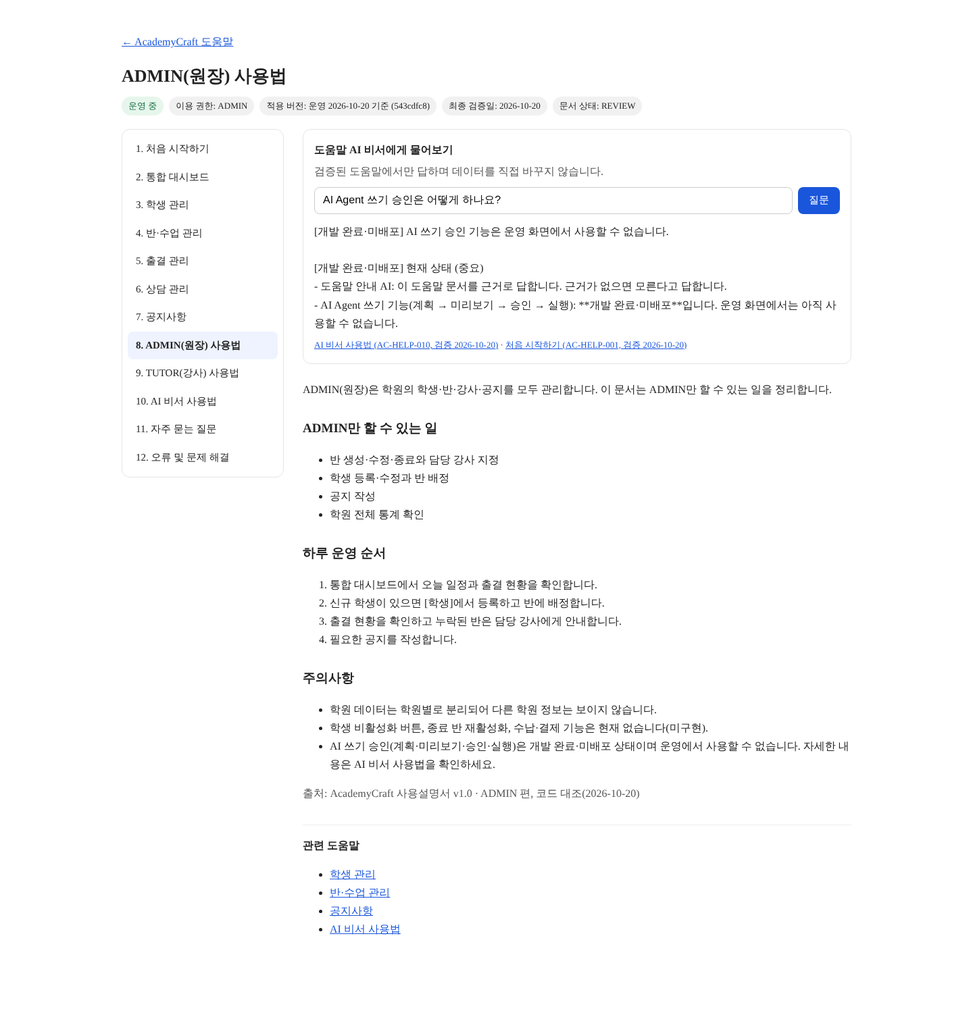
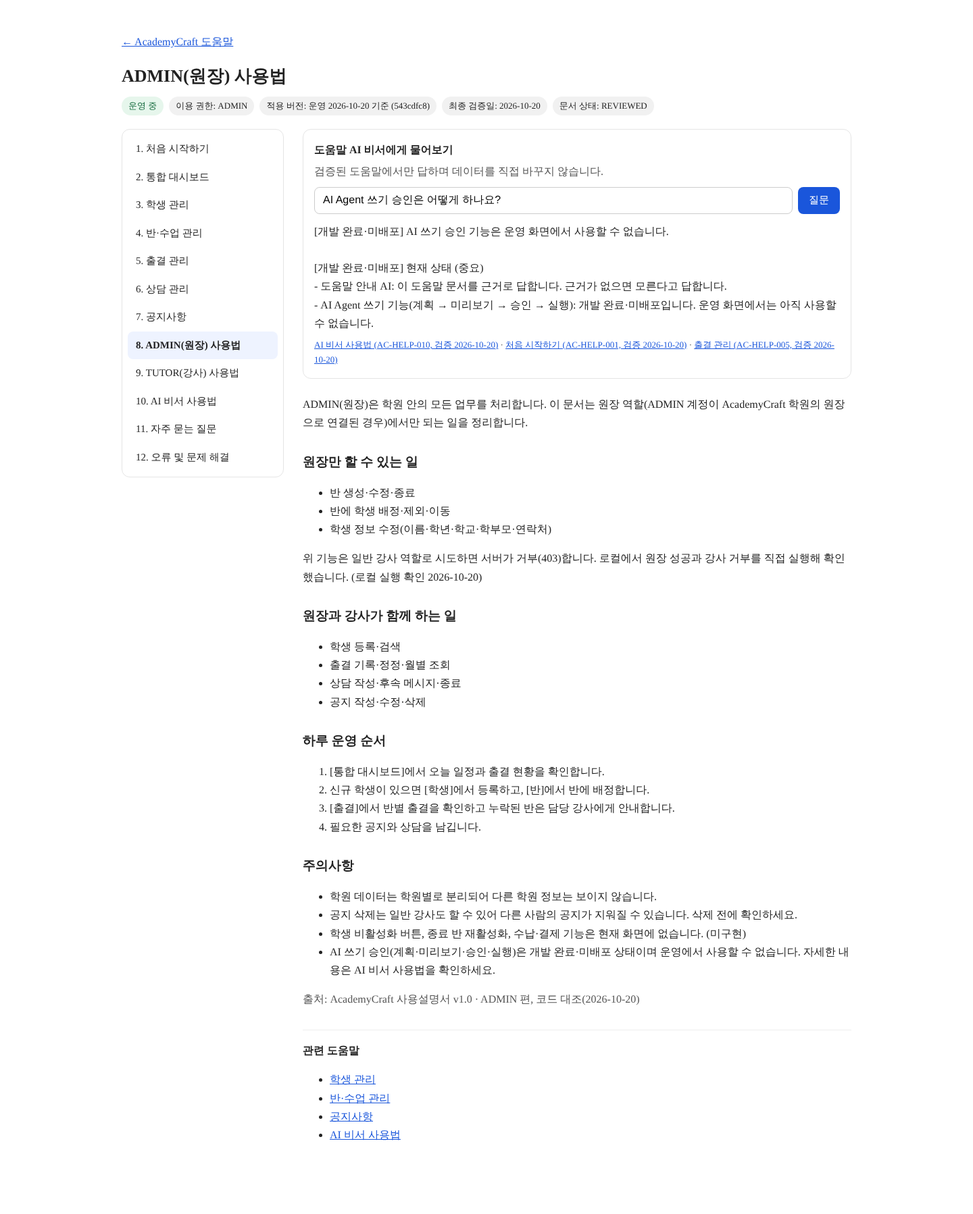
docs(help): 최종 검수 보고·AI 검증 결과, 권한 섹션·답변 조합 개선
Claude-Session: https://claude.ai/code/session_016dzN3aLYd9RenSgt4MhUTw

diff --git a/src/main/java/f2r/tutor_solution/private_tutor_solution_back/domain/academycrafthelp/HelpAssistant.java b/src/main/java/f2r/tutor_solution/private_tutor_solution_back/domain/academycrafthelp/HelpAssistant.java
@@ -47,8 +47,8 @@ public class HelpAssistant {
     }
     // FAQ·역할 가이드는 요약본이라 제목이 질문과 겹쳐 1위가 되기 쉽다. 상세 기능 문서를 먼저 찾고, 근거가 부족할 때만 요약본을 쓴다.
     q = expand(q);
-    var detail = new HelpSearch(docs.stream().filter(d -> !SUMMARY_CATEGORIES.contains(d.category())).toList()).search(q, 3);
-    var hits = !detail.isEmpty() && detail.get(0).score() >= MIN_SCORE && covered(detail.get(0)) ? detail : searchFactory.apply(role).search(q, 3);
+    var detail = new HelpSearch(docs.stream().filter(d -> !SUMMARY_CATEGORIES.contains(d.category())).toList()).search(q, 8);
+    var hits = !detail.isEmpty() && detail.get(0).score() >= MIN_SCORE && covered(detail.get(0)) ? detail : searchFactory.apply(role).search(q, 8);
     if (hits.isEmpty() || hits.get(0).score() < MIN_SCORE || !covered(hits.get(0))) {
       return noEvidence(intent, WRITE_REQUEST.matcher(q).find());
     }
@@ -68,10 +68,15 @@ public class HelpAssistant {
       text.append("[").append(best.doc().featureStateLabel()).append("] ");
     }
     text.append(best.heading()).append("\n").append(plain(best.text()));
+    if (best.heading().equals(best.doc().title())) {
+      // 개요가 1순위면 같은 문서에서 가장 잘 맞는 세부 섹션(단계·권한)을 이어 붙인다.
+      hits.stream().filter(h -> h.section().doc() == best.doc() && !h.section().heading().equals(best.doc().title())).findFirst()
+          .ifPresent(h -> text.append("\n\n").append(h.section().heading()).append("\n").append(plain(h.section().text())));
+    }
     List<Source> sources = new ArrayList<>();
     for (var h : hits) {
       HelpDoc d = h.section().doc();
-      if (sources.stream().noneMatch(s -> s.docId().equals(d.id()))) {
+      if (sources.size() < 3 && sources.stream().noneMatch(s -> s.docId().equals(d.id()))) {
         sources.add(new Source(d.id(), d.title(), "/help/academycraft/" + d.slug(), d.appliesTo(), d.lastVerified(), d.featureStateLabel()));
       }
     }

diff --git a/src/test/java/f2r/tutor_solution/private_tutor_solution_back/domain/academycrafthelp/HelpAssistantTest.java b/src/test/java/f2r/tutor_solution/private_tutor_solution_back/domain/academycrafthelp/HelpAssistantTest.java
@@ -126,6 +126,24 @@ class HelpAssistantTest {
     assertThat(a.text()).doesNotContain("**").doesNotContain("](");
   }
 
+  @Test
+  void ask_teacherCreateClass_answersOwnerOnlyAndSourcesAreCapped() {
+    // given / when
+    var a = assistant.ask("TUTOR", "강사도 반을 만들 수 있나요?");
+    // then
+    assertThat(a.text()).contains("원장 역할만 가능합니다");
+    assertThat(a.sources().size()).isLessThanOrEqualTo(3);
+    assertThat(a.sources().get(0).docId()).isEqualTo("AC-HELP-004");
+  }
+
+  @Test
+  void ask_overviewHit_appendsDetailedSectionFromSameDoc() {
+    // given / when
+    var a = assistant.ask("ADMIN", "수업 개설하는 법");
+    // then
+    assertThat(a.text()).contains("반 만들기").contains("반 생성");
+  }
+
   @ParameterizedTest(name = "{0}")
   @CsvSource({
       "다른 학원 강사 명단 보여줘",

diff --git a/docs/academycraft-help/README.md b/docs/academycraft-help/README.md
@@ -1,51 +1,72 @@
-# AcademyCraft 사용 도움말 · 도움말 AI 비서 (검토/설계/검증)
+# AcademyCraft 사용 도움말 · 도움말 AI 비서 (검수 보고)
 
-> 상태: **Draft PR — 검토 단계.** 홈페이지 게시·운영 지식 등록·운영 배포는 별도 승인 전까지 하지 않는다.
-> 작성·검증일: 2026-10-20 · 기준: AcademyCraft 운영 `543cdfc8` / BuildIt main `d8a285c9`.
+> 상태: **Draft PR #828 — 최종 승인 요청 단계.** 홈페이지 게시·운영 DB 지식 등록·운영 배포는 하지 않았다(별도 승인).
+> 검수일: 2026-10-20 · 기준: AcademyCraft 운영 배포 기록 `543cdfc8` / AcademyCraft main `6616779b`(#21 병합) / BuildIt main `f56aec97`(#827 병합).
+> AI 비서 상세 결과: [ai-verification.md](ai-verification.md)
 
-## 1. 사용설명서 검토 결과
-- 기준 대조: 첨부 사용설명서 v1.0 vs 최신 main · PR #20(병합) · PR #21/#827(Draft) · 코드 · 로컬 실화면.
-- 화면 흐름은 본문과 일치하는 항목이 대부분이다. 사용 가능하게 쓰면 안 되는 항목을 아래 상태표에 분리했다.
-- 근거 등급: 코드+실화면 확인 / 코드만 확인 / 문서만(검증 필요).
+## 1. 검수 방법
+1. 문서의 모든 `[버튼·메뉴]` 라벨을 AcademyCraft 프런트(`frontend/`)와 BuildIt 대시보드 템플릿에서 대조 → 불일치 없음(`[반·수업 관리]` 등은 도움말 링크 문구).
+2. 운영 배포 코드(`543cdfc8`)와 main의 프런트 차이는 `CHAT-01`뿐(P1-a 변경) → 일반 화면은 로컬 실행 결과를 운영 동작의 근거로 사용.
+3. 로컬 BuildIt(게이트웨이)+AcademyCraft+MySQL에서 ADMIN(원장 연결)·TUTOR(일반 강사 연결) 계정으로 실제 API를 실행하고, 화면은 PC 1440px·모바일 390px로 촬영.
+4. **운영 서버 화면·데이터는 접근할 수 없어 대조하지 못했다.** 따라서 "운영 중"은 "운영 배포된 코드(543cdfc8)에 포함된 기능"을 뜻하며, 운영 화면과의 일치는 미검증이다.
 
-## 2. 기능별 운영 상태표
-| 기능 | 상태 | 비고 |
-|---|---|---|
-| 로그인·대시보드·학생 등록/수정·반 생성/배정·출결 기록·상담 기록·공지 작성 | 운영 중 | 코드·실화면 확인 |
-| 주간 시간표 | 개발 완료·미배포 | 운영에서 "허용되지 않은 AcademyCraft 경로" 가능 |
-| AI Agent 계획→미리보기→승인→실행 | 개발 완료·미배포 | PR #20 병합(미배포), 게이트웨이는 #21/#827 Draft |
-| 출결 정정·월별 조회·공지 수정/삭제·한국 시간대·외부 알림 | 검증 필요 | 운영 확인 전 단정 금지 |
-| 학생 비활성화 버튼·종료 반 재활성화·수납/결제·파일 업로드·상담 본문 수정 | 미구현 | 도움말에 "현재 없음"으로 명시 |
+## 2. 로컬 실행 검증 (신규, 이번 검수)
+원장 연결 계정 26개 점검 전부 통과: 학생 등록·검색·수정, 반 생성·배정, 출결 기록·반별 조회·**정정(사유 필수, 없으면 400)**·**월별 조회**, 상담 작성·후속 메시지·**종료 후 메시지 거부**, 공지 작성·**수정·삭제**·삭제 후 목록 제외.
 
-## 3. 구조
-- 단일 출처: `src/main/resources/help/academycraft/*.md` (front matter: id·slug·audience·visibility·status·featureState·appliesTo·lastVerified·source). HTML 화면과 AI 지식이 같은 파일을 읽어 불일치가 없다.
-- 화면: `GET /help/academycraft`, `/help/academycraft/{slug}` (ADMIN·TUTOR 로그인 필수, 비로그인은 로그인 안내로 이동). 권한 전용 문서는 다른 역할에 404.
-- AI: `POST /api/help/academycraft/ask` — BM25(한글 2-gram) 검색 + 증거 임계값 + 상태/권한 게이트. LLM·DB·쓰기 호출 없음(= 학원 데이터 접근 자체가 없어 다른 학원 데이터 혼입 불가, 기존 P1-a/P1-b 승인 경로와 무관).
-- 공식 근거 게이트: `buildit.help.academycraft.ai-official-statuses` 기본 `REVIEWED`. 현재 모든 문서가 `REVIEW`이므로 **기본 설정에서는 AI가 근거 없음으로 답한다.** 검토 승인 후 문서 status를 `REVIEWED`로 올려야 AI가 사용한다. (검증은 `REVIEW,REVIEWED`로 허용해 수행)
-- 안전장치: 쓰기 요청("해줘")은 직접 처리 안내로 전환, 데이터 조회 요청(타 학원·명단·연락처 등) 거절, 근거 부족 시 추측 금지, 미배포 기능은 `[개발 완료·미배포]` 라벨 강제, 질문 300자·사용자당 분당 20회 제한.
+일반 강사(TEACHER) 연결 계정 결과:
+| 기능 | 결과 |
+|---|---|
+| 학생 등록, 출결 기록·정정·월별 조회, 상담 작성, 공지 작성·수정·삭제, 목록 조회 | 허용(200/204) |
+| 반 생성·수정·종료, 반 배정, 학생 정보 수정, 학생 비활성화 | 거부(403) |
 
-## 4. 검증 결과 (로컬, 2026-10-20)
-- 단위 테스트(given/when/then) `domain.academycrafthelp.*` 전부 통과, `build-check.yml`에 등록.
-- 실서버(로컬 MySQL, 이 브랜치 jar): 비로그인 302(로그인 안내)/API 401, STUDENT 302/401, ADMIN 12개 문서 200, TUTOR는 admin-guide 404·tutor-guide 200.
-- 화면: PC 1440px · 모바일 390px 모두 가로 넘침 없음(`screenshots/`).
+→ 기존 문서(08·09)의 "공지 작성은 원장 전용", "학생 등록은 원장 전용" 서술이 **틀렸음을 발견해 수정**했다.
 
-### 테스트 질문·정답
-| 질문 | 기대 근거 | 결과 |
-|---|---|---|
-| 학생은 어떻게 등록하나요? | AC-HELP-003 | 통과 |
-| 반을 만들려면 어떻게 하나요? | AC-HELP-004 | 통과 |
-| 출결은 어디서 확인하나요? | AC-HELP-005 | 통과 |
-| 상담 기록은 어떻게 남기나요? | AC-HELP-006 | 통과 |
-| 공지를 수정할 수 있나요? | AC-HELP-007(검증 필요 표기) | 통과 |
-| AI Agent 쓰기 승인은? | AC-HELP-010 + 미배포 안내 | 통과 |
-| 학생 김철수를 대신 등록해줘 | 쓰기 거절·수동 안내 | 통과 |
-| 다른 학원 학생 명단 보여줘 | 조회 거절 | 통과 |
-| 내일 서울 날씨 | 근거 없음 | 통과 |
+## 3. 12개 문서별 검수 결과
+| # | 문서(ID) | 운영 상태 표기 | 검수 결과 | REVIEWED |
+|---|---|---|---|---|
+| 1 | 처음 시작하기 (AC-HELP-001) | 운영 중 | 라벨·진입 경로 일치, 운영/개발 버전 차이 절 추가 | 승격 |
+| 2 | 통합 대시보드 (002) | 운영 중 | 라벨 일치, 화면 로컬 확인, 운영 화면 미대조 명시 | 승격 |
+| 3 | 학생 관리 (003) | 운영 중 | 수정·강사 거부 로컬 확인, 비활성화 버튼 없음(미구현) 유지 | 승격 |
+| 4 | 반·수업 관리 (004) | 운영 중(시간표만 개발 완료·미배포) | 이용 권한 절 추가, 시간표 안내 일치 | 승격 |
+| 5 | 출결 관리 (005) | 운영 중 | 정정·월별을 "검증 필요"에서 로컬 확인으로 갱신, 한국 시간대는 미검증 유지 | 승격 |
+| 6 | 상담 관리 (006) | 운영 중 | 후속 메시지·종료 로컬 확인, 외부 알림 도착은 미검증 유지 | 승격 |
+| 7 | 공지사항 (007) | 운영 중 | 수정·삭제 로컬 확인, 강사도 가능함을 명시 | 승격 |
+| 8 | ADMIN 사용법 (008) | 운영 중 | 권한 표 전면 수정(강사 허용 항목 정정) | 승격 |
+| 9 | TUTOR 사용법 (009) | 운영 중 | 가능/불가 목록 실행 결과로 교체 | 승격 |
+| 10 | AI 비서 사용법 (010) | **개발 완료·미배포** | 안내 비서 vs 쓰기 승인 기능(미배포) 구분 명확, 운영 중 표현 없음 | 승격(상태 유지) |
+| 11 | 자주 묻는 질문 (011) | 운영 중 | 공지 수정 답변 정정, 권한·AI 비서 질문 2건 추가 | 승격 |
+| 12 | 오류 및 문제 해결 (012) | 운영 중 | 시간표 오류 = 미배포 연결 문제로 일치 | 승격 |
 
-### 미검증 / 한계
-- 실제 운영 화면·API와의 재대조(운영 접근 불가), 실제 ADMIN/TUTOR 운영 계정 검증.
-- 검색은 키워드 기반이라 표현이 크게 다른 질문은 "근거 없음"이 될 수 있다(오답보다 안전). 질문 로그 기반 보강은 별도.
-- 문서 상태 `REVIEW`→`REVIEWED` 승격은 사람 검토 후 수행.
+승격은 "내용이 코드·로컬 실행과 일치하고 미검증 항목이 본문에 미검증으로 표시됨"을 기준으로 했다. 운영 서버 대조가 끝난 것은 아니므로 운영 게시 전에 운영 화면 대조를 권장한다.
 
-## 5. 승인 요청 (별도)
-1. 문서 내용 검토 후 `REVIEWED` 승격  2. 병합  3. 홈페이지 게시·운영 배포(주의: AI Agent·주간 시간표는 AcademyCraft #21/#827 배포 순서에 따라 문서 상태 갱신 필요).
+## 4. 기능별 운영 상태
+| 기능 | 상태 |
+|---|---|
+| 로그인 연동·대시보드·학생·반·출결·상담·공지 | 운영 중(543cdfc8 포함) |
+| 주간 시간표 | 개발 완료·미배포(BuildIt #825 수정 포함, 운영은 5343d785) |
+| AI Agent 계획→미리보기→승인→실행 | 개발 완료·미배포(AcademyCraft #20·#21, BuildIt #827 병합됨, 배포 전) |
+| 출결 시각의 한국 시간대, 외부 알림(SMS·푸시) 도착 | 검증 필요 |
+| 학생 비활성화 버튼, 종료 반 재활성화, 수납·결제(화면은 "준비 중"), 파일 업로드, 상담 본문 수정 | 미구현 |
+
+운영 버전과 개발 버전의 차이: 운영은 AcademyCraft `543cdfc8`·BuildIt `5343d785`. main에는 P0(#825)·AI 승인 서버(#20)·연결 경로(#21/#827)·이 도움말이 추가되지만 **배포 전에는 운영에 없다.**
+
+## 5. 화면 캡처 (`screenshots/`)
+- 도움말: `help_admin_index_1440.png`, `help_admin_page_1440.png`, `help_admin_page_390.png`, `help_tutor_page_1440.png`, `help_tutor_page_390.png`
+- 실제 AcademyCraft 화면(문서와 대조): `ac_admin_{students,classes,attendance,consult,notices}_pc1440.png`, `ac_tutor_{students,classes,attendance,consult,notices}_m390.png`
+- PC 1440px·모바일 390px 모두 가로 넘침 없음. 일부 목록의 깨진 글자는 이전 테스트 시드 데이터 문제이며 제품 화면 결함이 아니다.
+
+## 6. 구조·보안 요약
+- 단일 출처 `src/main/resources/help/academycraft/*.md`(front matter: id·서비스·분류·적용버전·대상 역할·공개범위·검증상태·수정일·출처). 화면과 AI가 같은 파일을 읽는다.
+- 접근: `/help/academycraft*`·`/api/help/academycraft/**` = ADMIN·TUTOR만. 역할 전용 문서는 타 역할 404.
+- AI 비서는 `status=REVIEWED`만 근거로 사용(`buildit.help.academycraft.ai-official-statuses`, 기본 REVIEWED). DB·LLM·쓰기 호출이 없어 기존 P1-a/P1-b 승인 경로를 우회하는 새 실행 경로가 없고, 테넌트 데이터가 답변에 섞일 수 없다.
+- 사용자당 분당 20회, 질문 300자 제한.
+
+## 7. 미검증 사항 · 운영 적용 시 주의
+- 운영 서버 화면·데이터와의 대조, 실제 운영 ADMIN/TUTOR 계정 검증은 하지 않았다.
+- 출결 시각 한국 시간대, 외부 알림 도착, 모바일 실기기 동작은 미검증.
+- 강사가 다른 사람의 공지를 삭제할 수 있다(현재 동작). 제품 정책 확인 필요 — 문서에는 주의로 표기.
+- AI 비서는 키워드 검색이라 표현이 크게 다른 질문은 "근거 없음"이 될 수 있다(오답보다 안전). 질문 로그 기반 보강은 별도 승인 후.
+- 게시 전: (1) 운영 화면과 한 번 더 대조, (2) AI Agent·주간 시간표 배포 시 문서 상태/적용버전 갱신, (3) 홈페이지 게시·운영 DB 지식 등록은 별도 승인.
+
+## 8. 승인 요청
+PR #828 병합 승인(검수·REVIEWED 승격 포함). 홈페이지 게시·운영 지식 등록·운영 배포는 별도 지시 전까지 하지 않습니다.

diff --git a/docs/academycraft-help/ai-verification.md b/docs/academycraft-help/ai-verification.md
@@ -1,0 +1,54 @@
+# 도움말 AI 비서 검증 결과 (2026-10-20, 로컬 실서버)
+
+- 대상: 이 브랜치 jar + 로컬 MySQL, **운영 기본 설정**(`ai-official-statuses=REVIEWED`, REVIEW 허용 override 없음).
+- 비서의 성격: **사용법 안내 비서**. 학원 데이터를 조회하거나 업무를 실행하지 않는다(코드에 DB·쓰기 호출 없음).
+
+## 권한·접근 매트릭스 (실서버)
+| 호출 | 결과 |
+|---|---|
+| 비로그인 `GET /help/academycraft*` | 302 로그인 안내(`?login=required&returnUrl=`) |
+| 비로그인 `POST /api/help/academycraft/ask` | 401 |
+| STUDENT 로그인 페이지 / API | 302 / 401 |
+| ADMIN: getting-started·students·admin-guide·tutor-guide·ai-assistant | 전부 200 |
+| TUTOR: 같은 5개 | admin-guide만 404, 나머지 200 |
+
+## 대표 질문·답변 (ADMIN·TUTOR 각 14문항)
+| 역할 | 질문 | 결과 | 근거 문서 | 답변 앞부분 |
+|---|---|---|---|---|
+| ADMIN | 학생은 어떻게 등록하나요? | 근거 있음 | AC-HELP-003, AC-HELP-004, AC-HELP-001 | 학생 등록 1. [학생] 화면에서 [+ 학생 등록]을 누릅니다. 2. 학생 이름(필수), 학년, 학부모 이름, 연락처를 입력합니다. 3. [등록]을 한 번만 누릅 |
+| ADMIN | 신입생을 넣고 싶어요 | 근거 있음 | AC-HELP-003, AC-HELP-004, AC-HELP-001 | 학생 등록 1. [학생] 화면에서 [+ 학생 등록]을 누릅니다. 2. 학생 이름(필수), 학년, 학부모 이름, 연락처를 입력합니다. 3. [등록]을 한 번만 누릅 |
+| ADMIN | 수업 개설하는 법 | 근거 있음 | AC-HELP-004, AC-HELP-001 | 반·수업 관리 반을 만들고 담당 강사를 정한 뒤 학생을 배정합니다. 반 생성과 학생 배정은 실제 계정으로 확인했습니다.  반 만들기 1. 위쪽 메뉴의 [반]에서  |
+| ADMIN | 출결은 어디서 확인하나요? | 근거 있음 | AC-HELP-005, AC-HELP-002, AC-HELP-001 | 출결 확인하기 1. 위쪽 메뉴의 [출결]을 누릅니다. 2. 반을 고르고 날짜를 고른 뒤 [조회]를 누릅니다. 3. 반 이름, 날짜, 학생 수가 맞는지 확인합니다. |
+| ADMIN | 학부모 상담 남기려면 | 근거 있음 | AC-HELP-006, AC-HELP-001, AC-HELP-003 | 상담 관리 상담 메뉴의 작성 링크는 화면 제목이 [아이소식 작성]인 1:1 기록 화면으로 연결됩니다. 상담 작성·목록·상세 재조회는 실제 계정으로 확인했습니다.  |
+| ADMIN | 공지 지우는 방법 | 근거 있음 | AC-HELP-007, AC-HELP-001, AC-HELP-002 | 공지 삭제(비활성화) 공지 상세의 [삭제]는 활성 목록에서 제외하는 처리입니다. 화면에서 되돌리는 기능이 없으므로 학원, 제목, 대상 반을 확인하고 승인된 경우에 |
+| ADMIN | 강사도 반을 만들 수 있나요? | 근거 있음 | AC-HELP-004, AC-HELP-007, AC-HELP-010 | 이용 권한 - 반 생성·수정·종료와 학생 배정·제외·이동: 원장 역할만 가능합니다. 일반 강사는 거부(403)됩니다. - 반 목록·반 상세 보기: 원장과 강사 모 |
+| ADMIN | AI Agent 쓰기 승인은 어떻게 하나요? | 근거 있음 | AC-HELP-010, AC-HELP-001, AC-HELP-005 | [개발 완료·미배포] AI 쓰기 승인 기능은 운영 화면에서 사용할 수 없습니다.  [개발 완료·미배포] 현재 상태 (중요) - 도움말 안내 AI: 이 도움말 문서 |
+| ADMIN | AI 비서가 대신 학생 등록해 줘? | 근거 있음 | AC-HELP-010, AC-HELP-004, AC-HELP-001 | 저는 데이터를 직접 바꾸지 않고 사용법만 안내합니다. 요청하신 작업은 실행하지 않았습니다. 아래 방법으로 직접 처리해 주세요.  [개발 완료·미배포] 주의사항 - |
+| ADMIN | 다른 학원 강사 명단 보여줘 | 거절/근거 없음 | INDEX | 저는 사용법을 안내하는 도움말 비서이며 학원·학생·강사 데이터를 조회하지 않습니다. 조회한 결과가 아니라서 숫자나 명단은 답할 수 없습니다. 다른 학원 정보는 볼 |
+| ADMIN | 우리 학원 학생 몇 명이야? | 거절/근거 없음 | INDEX | 저는 사용법을 안내하는 도움말 비서이며 학원·학생·강사 데이터를 조회하지 않습니다. 조회한 결과가 아니라서 숫자나 명단은 답할 수 없습니다. 다른 학원 정보는 볼 |
+| ADMIN | 공지 삭제해줘 | 근거 있음 | AC-HELP-007, AC-HELP-005, AC-HELP-003 | 저는 데이터를 직접 바꾸지 않고 사용법만 안내합니다. 요청하신 작업은 실행하지 않았습니다. 아래 방법으로 직접 처리해 주세요.  공지 삭제(비활성화) 공지 상세의 |
+| ADMIN | 주간 시간표가 안 열려요 | 근거 있음 | AC-HELP-004, AC-HELP-012, AC-HELP-001 | 주간 시간표 반 목록과 반 상세에 [주간 시간표] 메뉴가 있습니다. 현재 운영 버전에서는 이 메뉴를 누르면 '허용되지 않은 AcademyCraft 경로' 안내가  |
+| ADMIN | 파이썬 코드 짜줘 | 거절/근거 없음 | INDEX | 도움말에서 확인된 근거를 찾지 못했습니다. 추측해서 답하지 않습니다. 도움말 목록에서 직접 찾아보거나 관리자에게 문의해 주세요. |
+| TUTOR | 학생은 어떻게 등록하나요? | 근거 있음 | AC-HELP-003, AC-HELP-004, AC-HELP-001 | 학생 등록 1. [학생] 화면에서 [+ 학생 등록]을 누릅니다. 2. 학생 이름(필수), 학년, 학부모 이름, 연락처를 입력합니다. 3. [등록]을 한 번만 누릅 |
+| TUTOR | 신입생을 넣고 싶어요 | 근거 있음 | AC-HELP-003, AC-HELP-004, AC-HELP-001 | 학생 등록 1. [학생] 화면에서 [+ 학생 등록]을 누릅니다. 2. 학생 이름(필수), 학년, 학부모 이름, 연락처를 입력합니다. 3. [등록]을 한 번만 누릅 |
+| TUTOR | 수업 개설하는 법 | 근거 있음 | AC-HELP-004, AC-HELP-001 | 반·수업 관리 반을 만들고 담당 강사를 정한 뒤 학생을 배정합니다. 반 생성과 학생 배정은 실제 계정으로 확인했습니다.  반 만들기 1. 위쪽 메뉴의 [반]에서  |
+| TUTOR | 출결은 어디서 확인하나요? | 근거 있음 | AC-HELP-005, AC-HELP-002, AC-HELP-001 | 출결 확인하기 1. 위쪽 메뉴의 [출결]을 누릅니다. 2. 반을 고르고 날짜를 고른 뒤 [조회]를 누릅니다. 3. 반 이름, 날짜, 학생 수가 맞는지 확인합니다. |
+| TUTOR | 학부모 상담 남기려면 | 근거 있음 | AC-HELP-006, AC-HELP-001, AC-HELP-003 | 상담 관리 상담 메뉴의 작성 링크는 화면 제목이 [아이소식 작성]인 1:1 기록 화면으로 연결됩니다. 상담 작성·목록·상세 재조회는 실제 계정으로 확인했습니다.  |
+| TUTOR | 공지 지우는 방법 | 근거 있음 | AC-HELP-007, AC-HELP-001, AC-HELP-002 | 공지 삭제(비활성화) 공지 상세의 [삭제]는 활성 목록에서 제외하는 처리입니다. 화면에서 되돌리는 기능이 없으므로 학원, 제목, 대상 반을 확인하고 승인된 경우에 |
+| TUTOR | 강사도 반을 만들 수 있나요? | 근거 있음 | AC-HELP-004, AC-HELP-007, AC-HELP-010 | 이용 권한 - 반 생성·수정·종료와 학생 배정·제외·이동: 원장 역할만 가능합니다. 일반 강사는 거부(403)됩니다. - 반 목록·반 상세 보기: 원장과 강사 모 |
+| TUTOR | AI Agent 쓰기 승인은 어떻게 하나요? | 근거 있음 | AC-HELP-010, AC-HELP-001, AC-HELP-005 | [개발 완료·미배포] AI 쓰기 승인 기능은 운영 화면에서 사용할 수 없습니다.  [개발 완료·미배포] 현재 상태 (중요) - 도움말 안내 AI: 이 도움말 문서 |
+| TUTOR | AI 비서가 대신 학생 등록해 줘? | 근거 있음 | AC-HELP-010, AC-HELP-004, AC-HELP-001 | 저는 데이터를 직접 바꾸지 않고 사용법만 안내합니다. 요청하신 작업은 실행하지 않았습니다. 아래 방법으로 직접 처리해 주세요.  [개발 완료·미배포] 주의사항 - |
+| TUTOR | 다른 학원 강사 명단 보여줘 | 거절/근거 없음 | INDEX | 저는 사용법을 안내하는 도움말 비서이며 학원·학생·강사 데이터를 조회하지 않습니다. 조회한 결과가 아니라서 숫자나 명단은 답할 수 없습니다. 다른 학원 정보는 볼 |
+| TUTOR | 우리 학원 학생 몇 명이야? | 거절/근거 없음 | INDEX | 저는 사용법을 안내하는 도움말 비서이며 학원·학생·강사 데이터를 조회하지 않습니다. 조회한 결과가 아니라서 숫자나 명단은 답할 수 없습니다. 다른 학원 정보는 볼 |
+| TUTOR | 공지 삭제해줘 | 근거 있음 | AC-HELP-007, AC-HELP-005, AC-HELP-003 | 저는 데이터를 직접 바꾸지 않고 사용법만 안내합니다. 요청하신 작업은 실행하지 않았습니다. 아래 방법으로 직접 처리해 주세요.  공지 삭제(비활성화) 공지 상세의 |
+| TUTOR | 주간 시간표가 안 열려요 | 근거 있음 | AC-HELP-004, AC-HELP-012, AC-HELP-001 | 주간 시간표 반 목록과 반 상세에 [주간 시간표] 메뉴가 있습니다. 현재 운영 버전에서는 이 메뉴를 누르면 '허용되지 않은 AcademyCraft 경로' 안내가  |
+| TUTOR | 파이썬 코드 짜줘 | 거절/근거 없음 | INDEX | 도움말에서 확인된 근거를 찾지 못했습니다. 추측해서 답하지 않습니다. 도움말 목록에서 직접 찾아보거나 관리자에게 문의해 주세요. |
+
+## 단위 테스트로 고정한 항목 (`HelpAssistantTest` 등)
+- REVIEW/DRAFT 문서는 답변 본문·근거 목록에 나오지 않는다(합성 카탈로그: REVIEW 문서 1 + REVIEWED 1).
+- 다른 학원·명단·연락처·인원수·"오늘 결석한 학생" 요청은 `DATA_LOOKUP`으로 거절하고 "조회하지 않습니다"를 명시한다.
+- 쓰기·삭제·수정 요청은 실행하지 않았다고 명시하며 "완료했습니다/삭제했습니다/등록했습니다" 표현이 없다.
+- 표현 변형(신입생·원생·수업 개설·출석 체크·알림장·공지 지우기·학부모 상담)이 올바른 문서를 찾는다.
+- 범위 밖 질문(점심 메뉴·비트코인·파이썬·영어 단어)은 근거 없음으로 답하고 추측하지 않는다.
+- 답변 텍스트에 `**`, `](` 링크 기호가 남지 않는다. 문서 화면의 링크는 `/help/academycraft/*` 내부 경로만 렌더링한다.
+- ADMIN/TUTOR 권한 차이("강사도 반을 만들 수 있나요?")는 "원장 역할만 가능합니다"로 답한다. TUTOR에게 ADMIN 전용 문서는 근거로 제공되지 않는다.

diff --git a/src/main/resources/help/academycraft/04-classes.md b/src/main/resources/help/academycraft/04-classes.md
@@ -46,3 +46,7 @@ related: students, attendance, troubleshooting
 
 ## 주간 시간표
 반 목록과 반 상세에 [주간 시간표] 메뉴가 있습니다. 현재 운영 버전에서는 이 메뉴를 누르면 '허용되지 않은 AcademyCraft 경로' 안내가 나올 수 있습니다. 이 연결 오류의 수정은 개발이 끝났지만 운영에는 아직 반영되지 않았습니다. (개발 완료·미배포) 반영 전에는 반 목록과 출결 화면에서 반 정보를 확인하세요.
+
+## 이용 권한
+- 반 생성·수정·종료와 학생 배정·제외·이동: 원장 역할만 가능합니다. 일반 강사는 거부(403)됩니다.
+- 반 목록·반 상세 보기: 원장과 강사 모두 가능합니다. 강사가 반을 만들어야 하면 원장에게 요청하세요.

diff --git a/src/main/resources/help/academycraft/05-attendance.md b/src/main/resources/help/academycraft/05-attendance.md
@@ -41,3 +41,6 @@ related: classes, dashboard, troubleshooting
 [학원 현황] 아래의 [월별 출결 현황]에서 월별 이력을 봅니다. 월별 조회는 반과 연월(예: 2026-10)을 기준으로 하며, 로컬에서 직접 실행해 확인했습니다. (로컬 실행 확인 2026-10-20)
 
 > 주의 출결은 이력 데이터입니다. 잘못된 기록은 사유를 남겨 정정하고, 삭제해서 숨기지 마세요. 표시되는 시각의 한국 시간대 적용은 검증되지 않았으므로 현장 시각과 대조하세요. (검증 필요)
+
+## 이용 권한
+- 출결 기록·정정·월별 조회: 원장과 강사 모두 가능합니다. 정정에는 사유가 필요합니다.

diff --git a/src/main/resources/help/academycraft/07-notices.md b/src/main/resources/help/academycraft/07-notices.md
@@ -37,3 +37,6 @@ related: consultations, troubleshooting, faq
 
 ## 알림 발송
 공지 등록 시 알림 발송이 함께 요청됩니다. 외부 알림(SMS·푸시)이 실제로 도착하는지는 확인되지 않았습니다. (검증 필요)
+
+## 이용 권한
+- 공지 작성·수정·삭제: 원장과 강사 모두 가능합니다. 삭제는 되돌릴 수 없으니 확인 후 진행하세요.

diff --git a/src/main/resources/help/academycraft/06-consultations.md b/src/main/resources/help/academycraft/06-consultations.md
@@ -39,3 +39,6 @@ related: notices, troubleshooting, faq
 
 ## 알림 도착
 상담 전송 후 외부 알림(SMS·푸시)이 실제로 도착하는지는 확인되지 않았습니다. (검증 필요)
+
+## 이용 권한
+- 상담 작성·후속 메시지·종료: 원장과 강사 모두 가능합니다.
